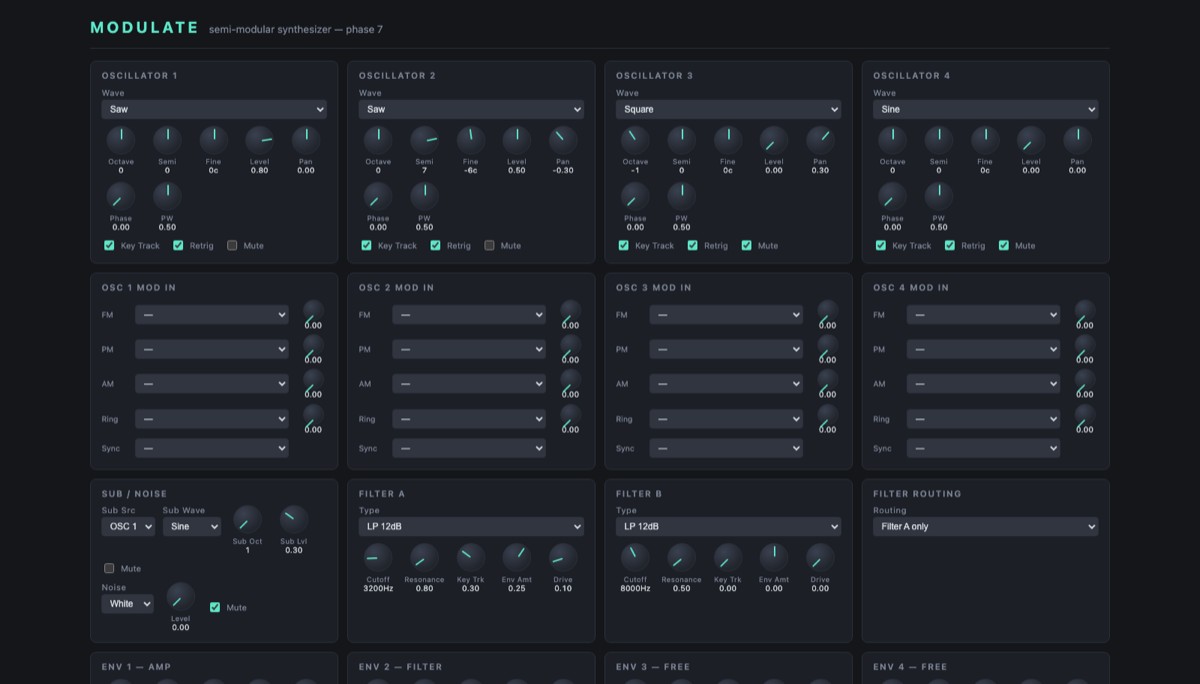
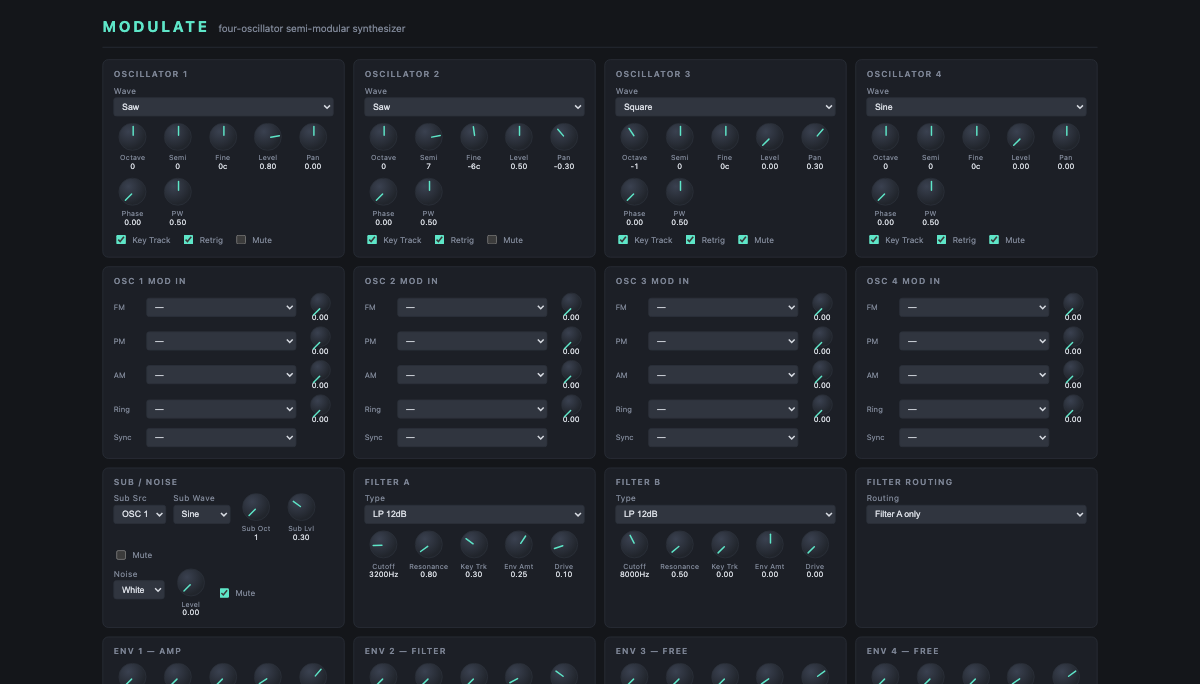
Update MODULATE card for the randomizer and preset banks
MODULATE gained a seeded patch randomizer and grew from 8 factory
presets to 74, so its description and feature chips now say so, and the
screenshot is re-captured (the old one still showed the "phase 7"
subtitle the app no longer uses).

diff --git a/js/project-data.js b/js/project-data.js
@@ -61,8 +61,8 @@ const PROJECTS = [
     title: "MODULATE",
     category: "SEMI-MODULAR",
     tagline: "A four-oscillator semi-modular synthesizer designed for ambient, dub, IDM, krautrock, minimal techno, generative and experimental electronic sound.",
-    description: "Four band-limited oscillators with cross-modulation and hard sync, dual routable filters, a 16-slot mod matrix, and a 16-step sequencer with per-step probability and ratchet — plus a tempo-aware Evolve mode.",
-    tech: ["16-slot mod matrix", "FM / PM / AM / ring mod", "16-step sequencer", "Evolve mode"],
+    description: "Four band-limited oscillators with cross-modulation and hard sync, dual routable filters, a 16-slot mod matrix, and a 16-step sequencer with per-step probability and ratchet — plus 74 factory presets and a seeded randomizer that builds whole new patches you can reproduce from a single number.",
+    tech: ["16-slot mod matrix", "FM / PM / AM / ring mod", "Seeded patch randomizer", "74 factory presets"],
     repoUrl: "https://github.com/jtbartee/modulate-synth",
     liveUrl: "https://jtbartee.github.io/modulate-synth/",
     screenshot: "assets/projects/modulate-synth.png",
